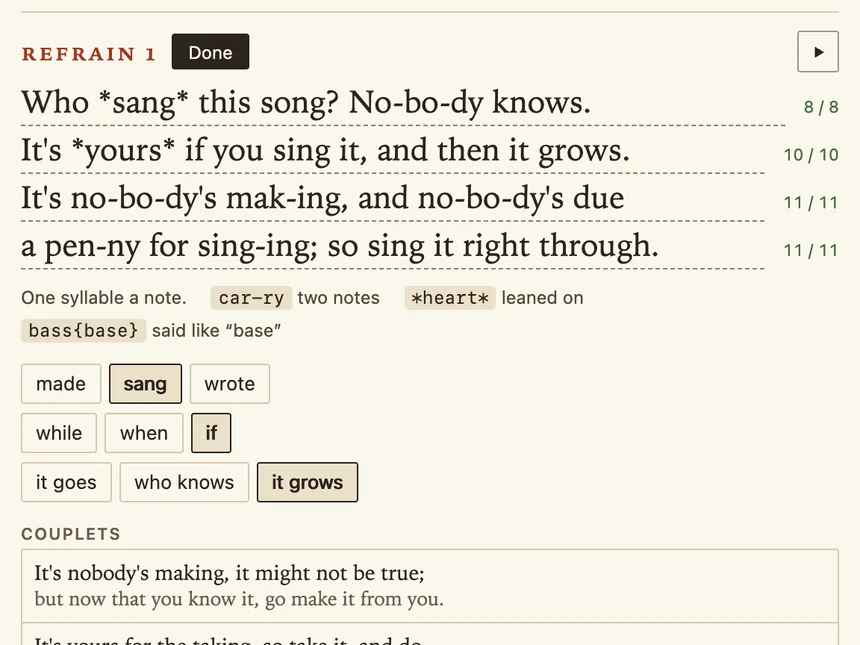
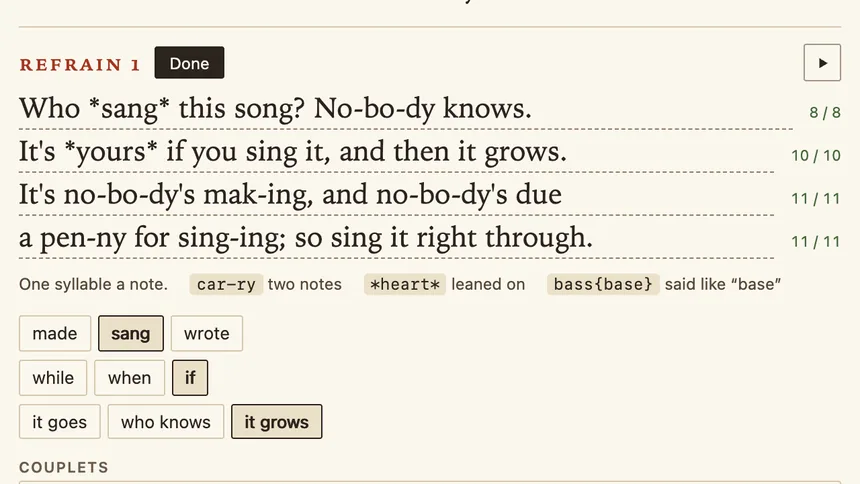
The home page's studio pictures are 16:9 (860 x 484): a quarter less tall
Page runs from the refrain's name to its words to swap, Arrange from the ruler to the bass, Mix takes as many players before the voice as fill the shape (six), and Sing is the stage's whole height, the lane and the lines under it.

diff --git a/web/sing/page/seed.html b/web/sing/page/seed.html
@@ -54,19 +54,19 @@
     <p>The studio opens your version of the song for today, in your browser.</p>
     <div class="tabs">
       <figure>
-        <img src="/tab-page.webp" width="860" height="645" loading="lazy" alt="The Page view: the first refrain being edited, its lines as fields with their syllable counts, the words that can be swapped under them, and its other couplets in a list.">
+        <img src="/tab-page.webp" width="860" height="484" loading="lazy" alt="The Page view: the first refrain being edited, its lines as fields with their syllable counts, and the words that can be swapped under them.">
         <figcaption><b>Page</b></figcaption>
       </figure>
       <figure>
-        <img src="/tab-arrange.webp" width="860" height="645" loading="lazy" alt="The Arrange view: the first refrain selected, every player in it marked to play hard, beside the verses around it.">
+        <img src="/tab-arrange.webp" width="860" height="484" loading="lazy" alt="The Arrange view: the first refrain selected, every player in it marked to play hard, beside the verses around it.">
         <figcaption><b>Arrange</b></figcaption>
       </figure>
       <figure>
-        <img src="/tab-mix.webp" width="860" height="645" loading="lazy" alt="The Mix view: four players' level and pan, the whistle's fader moved up from 98% to 139%, and the voice's strip with mute and solo.">
+        <img src="/tab-mix.webp" width="860" height="484" loading="lazy" alt="The Mix view: six players' level and pan, the whistle's fader moved up from 98% to 139%, and the voice's strip with mute and solo.">
         <figcaption><b>Mix</b></figcaption>
       </figure>
       <figure>
-        <img src="/tab-sing.webp" width="860" height="645" loading="lazy" alt="The Sing view: the tune as a lane of notes with the words under it, a line lit as it is sung.">
+        <img src="/tab-sing.webp" width="860" height="484" loading="lazy" alt="The Sing view: the tune as a lane of notes with the words under it, a line lit as it is sung.">
         <figcaption><b>Sing</b></figcaption>
       </figure>
     </div>

diff --git a/tools/site_pictures.py b/tools/site_pictures.py
@@ -1,4 +1,4 @@
-"""The home page's studio pictures, from the screenshots tools/site_pictures.mjs takes: each to 860 x 645 WebP in
+"""The home page's studio pictures, from the screenshots tools/site_pictures.mjs takes: each to 860 x 484 WebP in
 web/sing/page/ (tab-page.webp, tab-arrange.webp, tab-mix.webp, tab-sing.webp).
 
 usage: uv run python tools/site_pictures.py SHOTS_DIR
@@ -10,7 +10,7 @@ from pathlib import Path
 from PIL import Image
 
 ROOT = Path(__file__).resolve().parent.parent
-SIZE = (860, 645)
+SIZE = (860, 484)
 
 
 def main(shots: str) -> None:

diff --git a/docs/HOME-PAGE.md b/docs/HOME-PAGE.md
@@ -20,7 +20,7 @@ The pages alone build in seconds over the site as it was last built, its guides 
 `--pages`) also renders every guide that isn't current; on October 7, 2026 none was (the code had changed since
 September 28), so it would take about 26 minutes, for guides only singers' own pages still use.
 
-**The studio's pictures** (web/sing/page/tab-page.webp, tab-arrange.webp, tab-mix.webp, tab-sing.webp, 860 x 645
+**The studio's pictures** (web/sing/page/tab-page.webp, tab-arrange.webp, tab-mix.webp, tab-sing.webp, 860 x 484
 each) are four close crops, one of each view with something being changed in it and nothing shared between them:
 a refrain being edited (Page), a refrain's players set to hard (Arrange), the whistle's fader moved beside the
 voice's strip (Mix), the lane while a line is sung (Sing). `tools/site_pictures.mjs` takes them from the web studio
